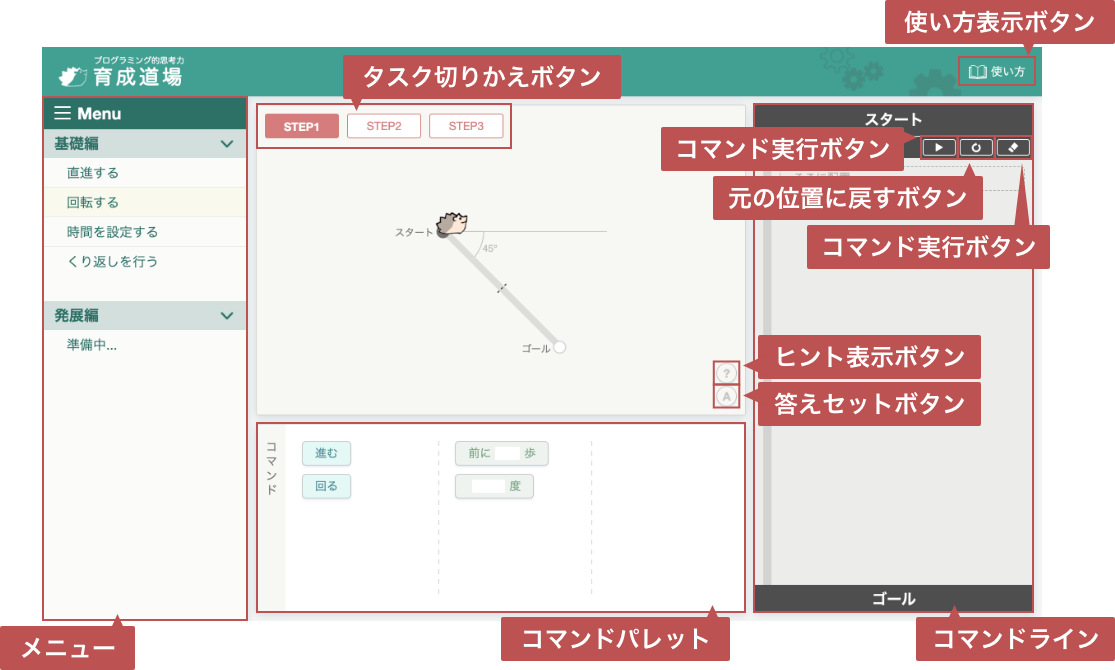
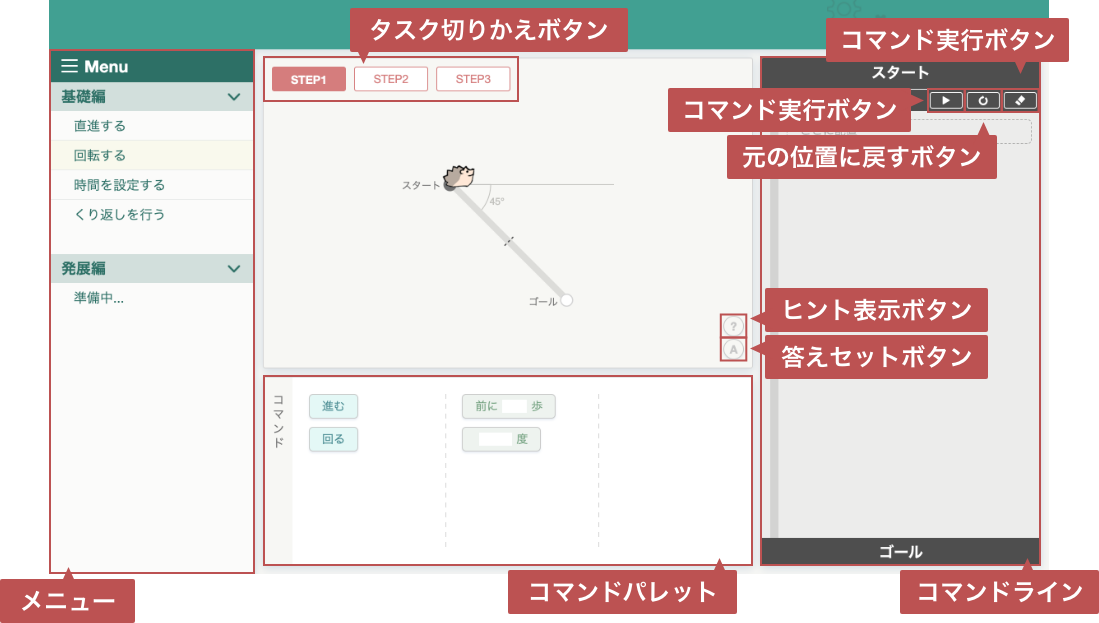
チュートリアル追加

diff --git a/components/partial/modal/Tutorial.vue b/components/partial/modal/Tutorial.vue
@@ -3,13 +3,118 @@
 		.overlay(@click="$emit('close-modal')")
 		.container
 			.wrap
-				.header 画面の見方
-				.body
-					img.img(src="~/assets/images/modal/tutorial1.png", alt="画面の見方")
+				transition(:name="slideType")
+					.page(v-show="pageNo == 1")
+						.header 画面の見方
+						.body
+							img.img(src="~/assets/images/modal/tutorial1.png", alt="画面の見方")
+				transition(:name="slideType")
+					.page(v-show="pageNo == 2")
+						.header 操作方法
+						.body
+							img.img(src="~/assets/images/modal/tutorial2.png", alt="操作方法")
+				transition(:name="slideType")
+					.page(v-show="pageNo == 3")
+						.header コマンド設定方法
+						.body
+							img.img(src="~/assets/images/modal/tutorial3.png", alt="コマンド設定方法")
+				.navigation
+					.prev(:class="{ hide: pageNo == 1 }", @click="slidePage('prev')")
+						img.img(src="~/assets/images/modal/arrow_l.svg", alt="左矢印")
+					.next(:class="{ hide: pageNo == 3 }", @click="slidePage('next')")
+						img.img(src="~/assets/images/modal/arrow_r.svg", alt="右矢印")
+				ul.indicator
+					li.item(:class="{ active: pageNo == 1 }", @click="pageNo = 1")
+					li.item(:class="{ active: pageNo == 2 }", @click="pageNo = 2")
+					li.item(:class="{ active: pageNo == 3 }", @click="pageNo = 3")
 </template>
 
+<script>
+export default {
+	data() {
+		return {
+			pageNo: 1,
+      slideType: 'next'
+		}
+	},
+	methods: {
+  	slidePage(slideType) {
+  		this.slideType = slideType
+
+      // ページNo設定
+      if (slideType === 'prev') {
+        this.pageNo -= 1
+      } else if (slideType === 'next') {
+        this.pageNo += 1
+      }
+
+      console.log(this.pageNo)
+	  }
+  }
+}
+</script>
+
 <style scoped>
-.img {
-  width: 800px;
+.navigation {
+	& .prev,
+	& .next {
+		position: absolute;
+		color: red;
+		cursor: pointer;
+		transition: var(--transition-link);
+
+		&:hover {
+			opacity: var(--opacity);
+		}
+	}
+
+	& .prev {
+		left: 0;
+		margin-left: 15px;
+	}
+
+	& .next {
+		right: 0;
+		margin-right: 15px;
+	}
+
+	& .hide {
+		opacity: 0;
+		pointer-events: none;
+	}
+}
+
+.indicator {
+	position: absolute;
+	bottom: 15px;
+	display: flex;
+	align-items: center;
+	justify-content: center;
+
+	& .item {
+		width: 14px;
+		height: 14px;
+		margin: 0 6px;
+		background-color: var(--color-bg-base);
+		border-radius: 7px;
+		box-shadow: 0 0 5px rgba(0, 0, 0, 0.3);
+		opacity: var(--opacity);
+		transition: var(--transition-link);
+		cursor: pointer;
+
+		&:hover,
+		&.active {
+			background-color: #879D54;
+			opacity: 1;
+		}
+
+		& + .item {
+			margin-left: 5px;
+		}
+	}
+
+	&:focus {
+		outline: none;
+	}
 }
 </style>

diff --git a/assets/styles/_modal.css b/assets/styles/_modal.css
@@ -19,6 +19,7 @@
 	& .container {
 	  display: table-cell;
 	  vertical-align: middle;
+	  width: 100%;
 	}
 
 	& .wrap {
@@ -82,8 +83,21 @@
 	}
 
 	&.tutorial {
+		color: var(--color-text-1);
+		
 		& .wrap {
-			max-width: 900px;
+			width: 800px;
+			display: flex;
+			align-items: center;
+			justify-content: center;
+		}
+
+		& .body {
+			margin-bottom: 20px;
+
+			& > .img {
+				width: 700px;
+			}
 		}
 	}
 }

diff --git a/assets/styles/_animation.css b/assets/styles/_animation.css
@@ -1,6 +1,6 @@
 .next-enter-active, .next-leave-active,
 .prev-enter-active, .prev-leave-active {
-  transition: all .5s cubic-bezier(0, 0, 1, 1) 0s;
+  transition: all .3s cubic-bezier(0.42, 0, 1, 1) 0s;
 }
 
 .next-enter {
